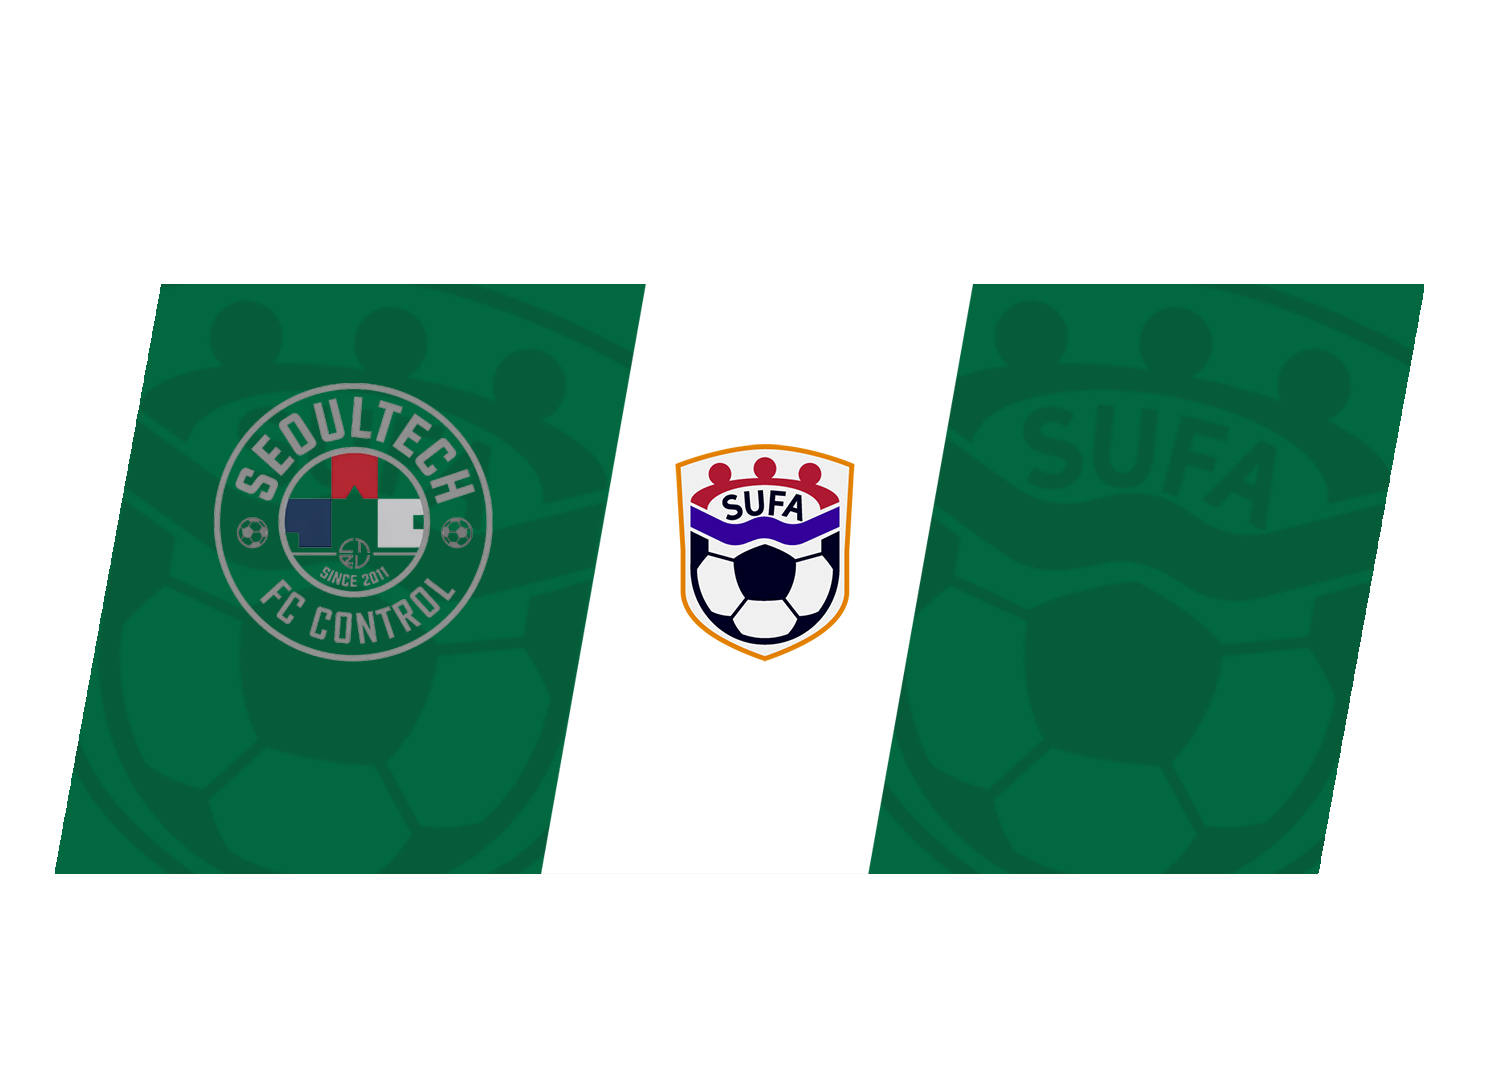
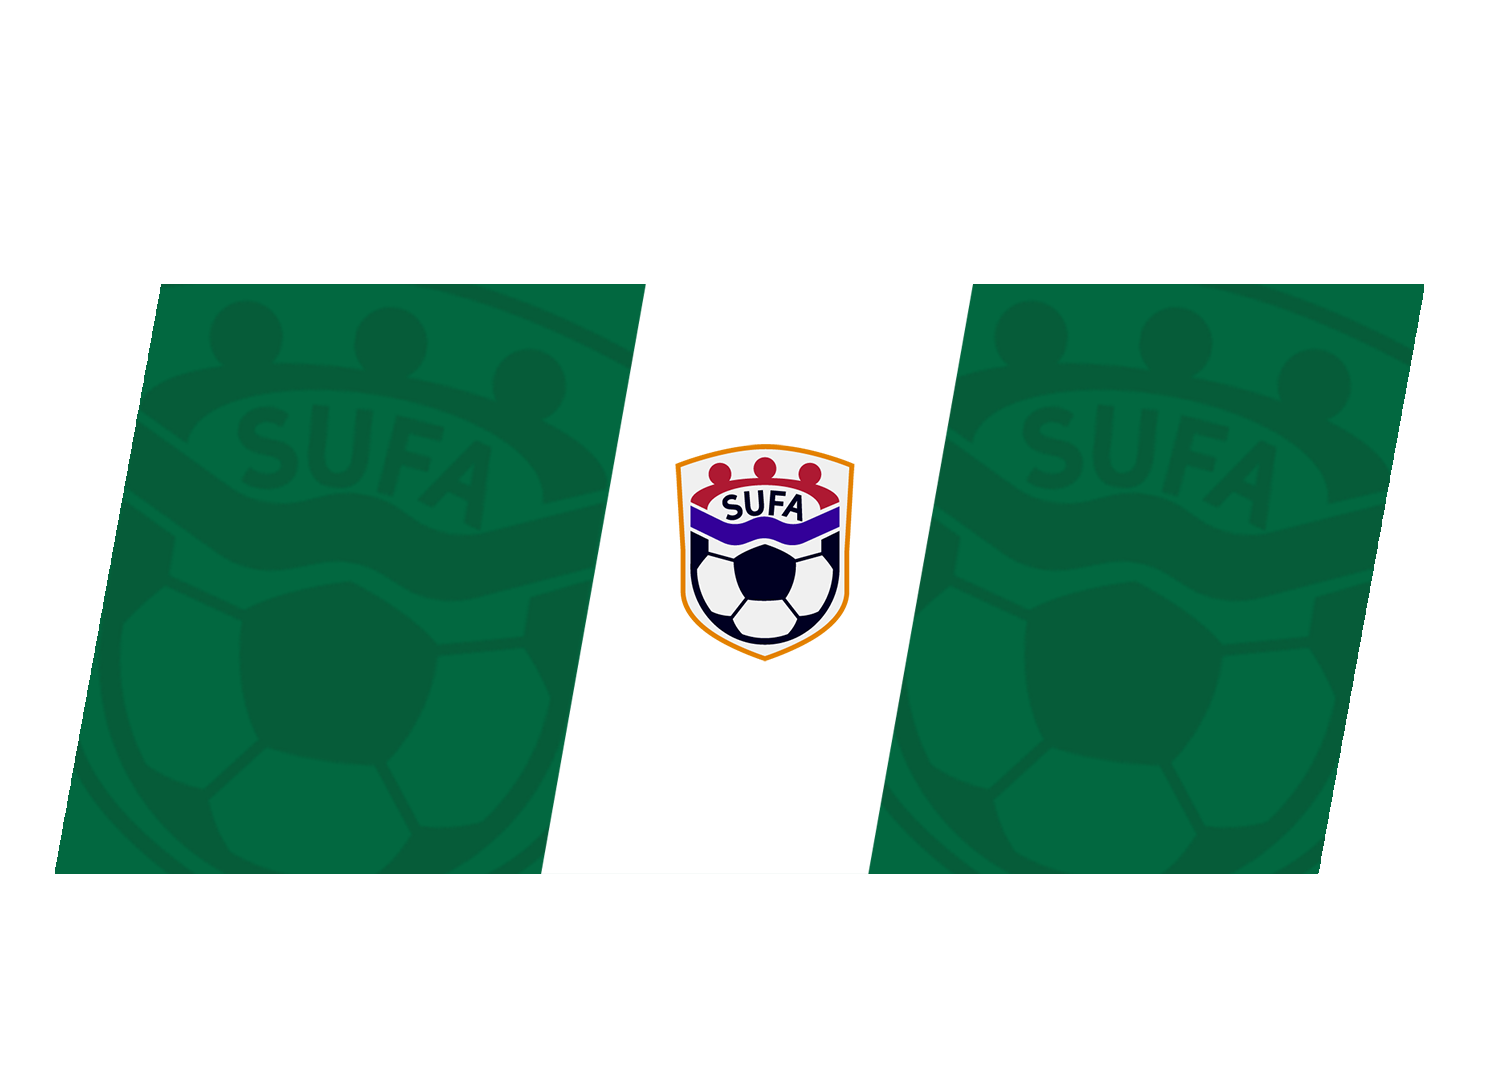
fix(highlight): 배경에 구워진 팀 로고 제거 + 점수판을 보이는 띠만 남게 자른다
두 가지가 화면에서 잡혔다.

① 시작 카드 배경에 남의 팀 로고가 남아 있었다 (B·L·S)

추출 때 '누끼' 라는 레이어 이름으로 팀 로고를 걸렀는데, 그건 A리그 PSD 의 작명이었다.
B·L·S 는 'fc ctrl', '서강대 클라시커' 처럼 팀 이름 그대로라 그대로 통과했고, 배경에
남의 팀 로고가 구워진 채 나갔다.

이름 대신 **자리·크기**로 거른다: 가운데 대회 배지 띠(x 42~60%)를 벗어난, 로고 크기
(520px 이하)이며 판 세로 가운데(25~75%)에 있는 레이어는 팀 로고다. 이 규칙은 팀
소개에만 쓴다 — 점수판은 SUFA 배지·팀 색 바가 작아서 로고로 오인된다(실제로 한 번
깎여 나가서 모드를 갈랐다). 네 리그 인트로를 다시 뽑아 나란히 놓고 눈으로 확인했다.

② 점수판 배치 상자가 실물보다 컸다

시안 캔버스(1215x605)는 대부분 투명 여백이고 보이는 판은 가운데 띠뿐인데, 통짜로
내보내니 얹는 쪽이 캔버스 크기로 자리를 잡았다 — 배치 상자가 실물의 4배 높이라
위아래로 옮길 수 있는 폭이 그만큼 좁았다.

배경의 알파 bbox(49,139~897,276)로 잘라 보이는 띠만 내보낸다. 글자는 배경 띠 안에만
들어가므로 함께 남는다. 900px 로 그리면 높이가 448 → 145 로 준다.

확인

- 네 리그 인트로·점수판을 나란히 구워 육안 확인: 인트로에 팀 로고 없음, 점수판은
  배지·팀 색 바·판이 온전.
- 잘린 점수판(900x145)에 라운드·팀명·점수·팀 색이 전부 제자리.
- 콘솔 템플릿 30 · 대회 라운드 13 · SUFA 세트 18 · 합본 4건 통과(시험 좌표는 잘린
  캔버스 비율로 갱신).

Claude-Session: https://claude.ai/code/session_01FRKEz5rRvCBaUfSowuBKVa

Changed region(s): [[0.1245, 0.3361, 0.3424, 0.6111]]

diff --git a/apps/api/app/highlight_cards.py b/apps/api/app/highlight_cards.py
@@ -491,6 +491,14 @@ def render_board(
         _draw_field(layer, spec, str(values.get(spec.id) or ""), logos.get(spec.id), merged)
     out = Image.alpha_composite(base, layer)
 
+    # 시안 캔버스(1215x605)는 대부분 투명 여백이고 보이는 판은 가운데 띠뿐이다.
+    # 통짜로 내보내면 얹는 쪽이 캔버스 크기로 자리를 잡아 배치 상자가 실물보다
+    # 훨씬 커지고, 위아래로 옮길 수 있는 폭이 그만큼 좁아진다 — 실제로 그랬다.
+    # 자르는 기준은 **배경**의 알파다. 글자는 배경 띠 안에만 들어가므로 함께 남는다.
+    bbox = base.getchannel("A").getbbox()
+    if bbox:
+        out = out.crop(bbox)
+
     width = max(80, int(board_width))
     height = max(1, round(width * out.height / out.width))
     return out.resize((width, height), Image.LANCZOS)
